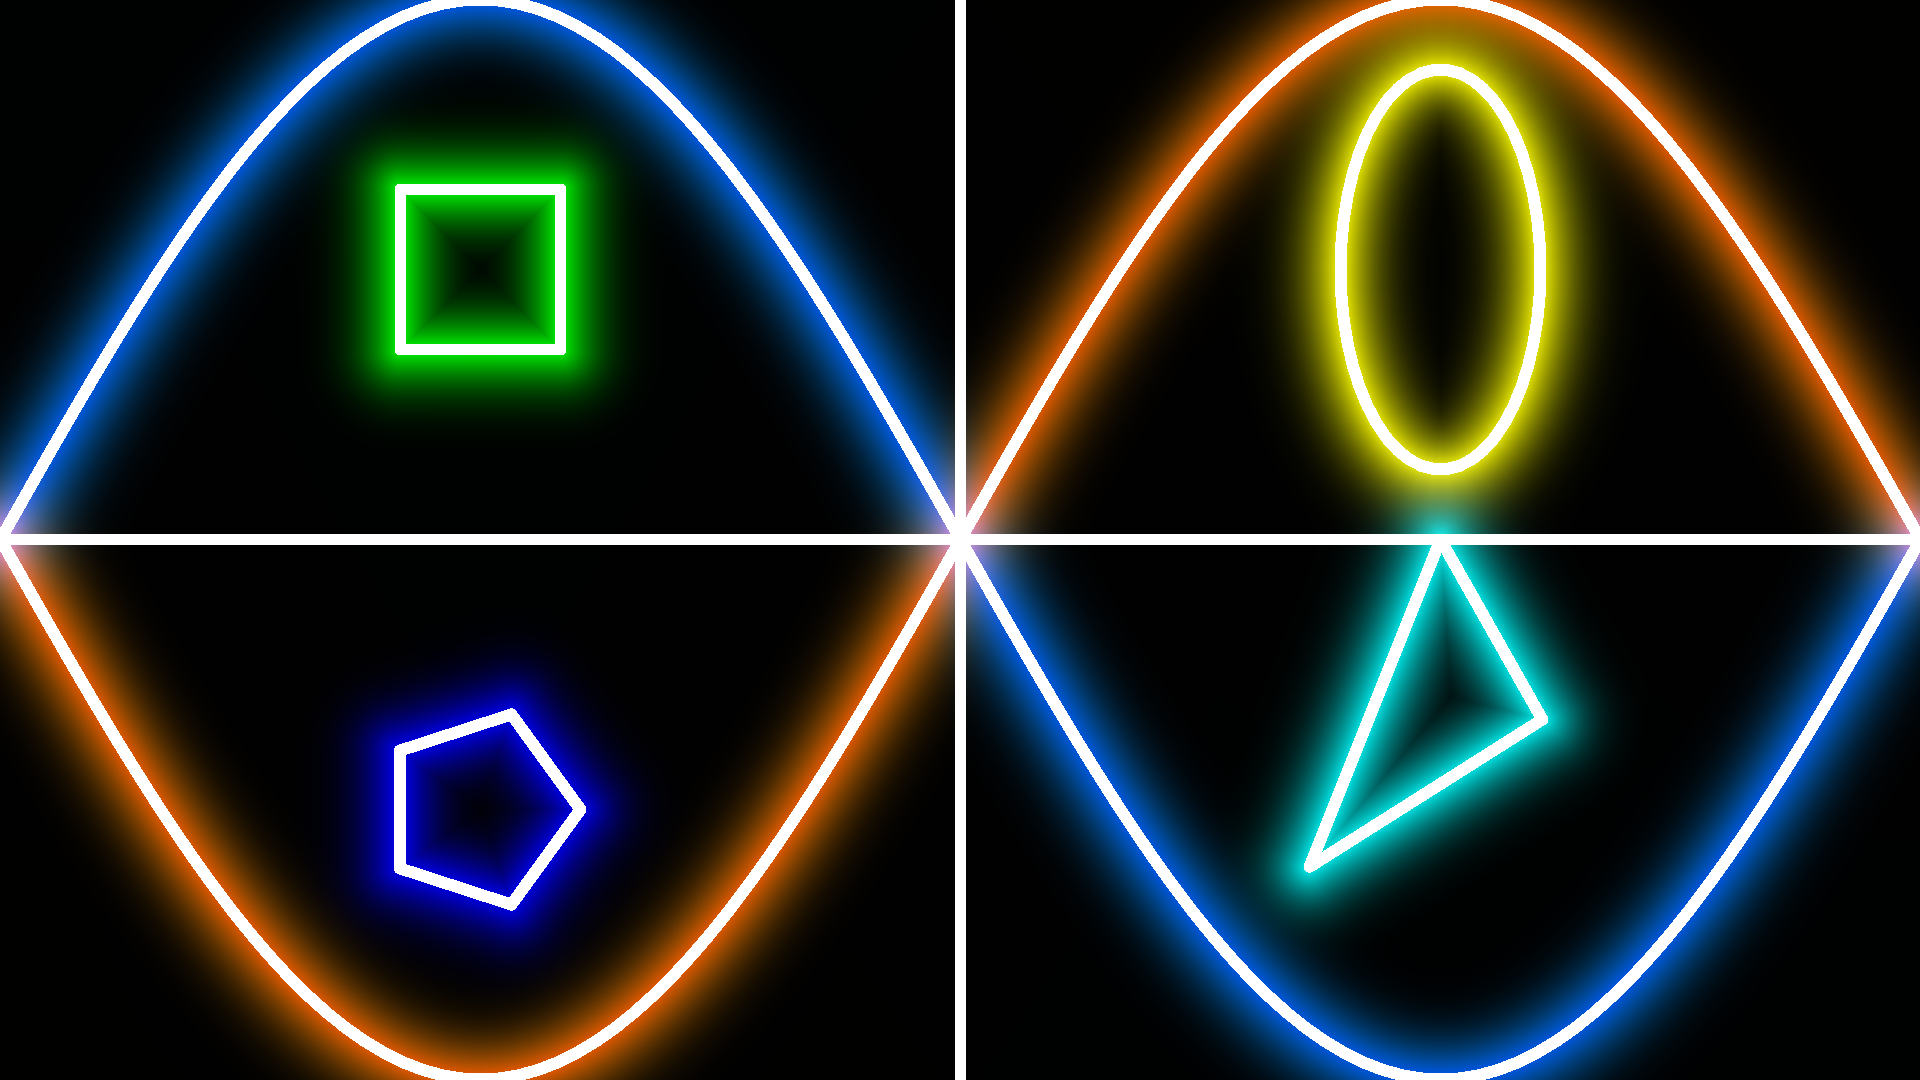
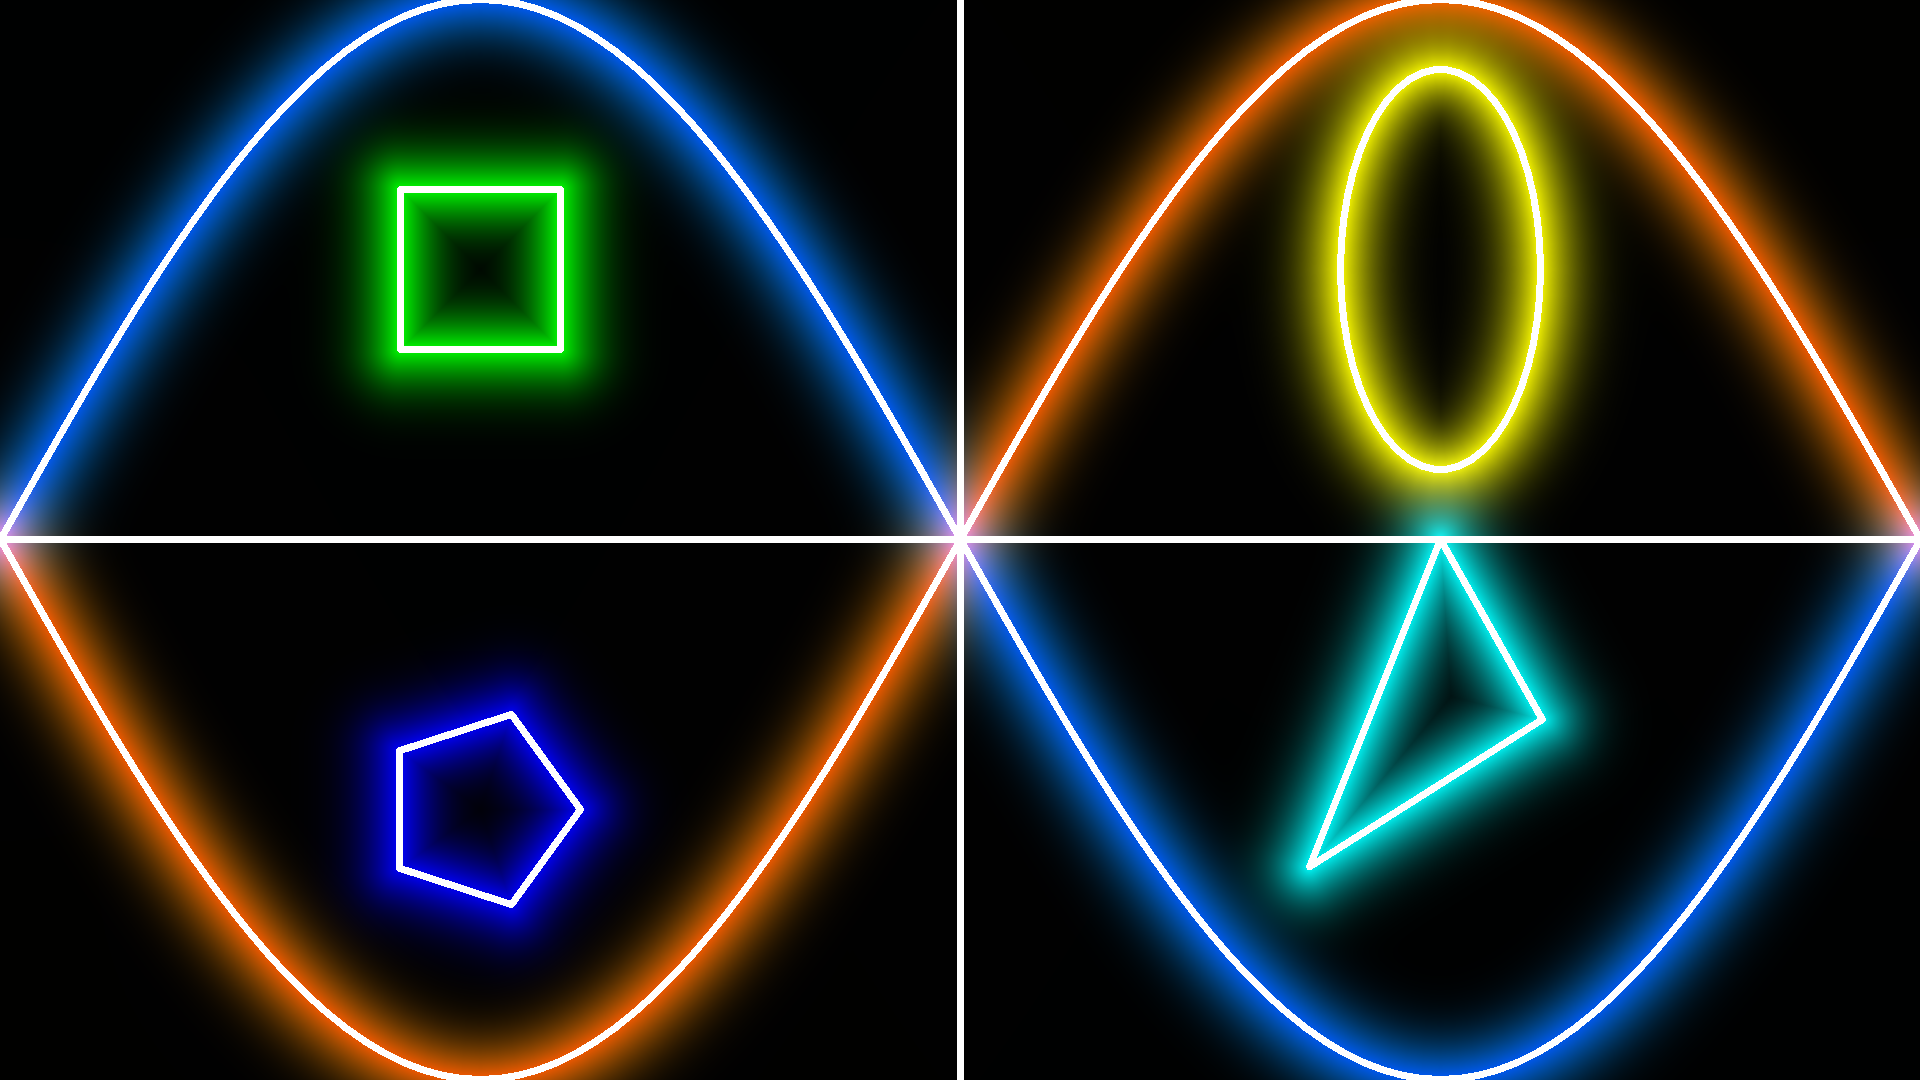
line

diff --git a/maingpu.cpp b/maingpu.cpp
@@ -106,7 +106,7 @@ int main()
                         {{255.0, 255.0, 0.0}},
                         {{0.0, 0.0, 255.0, 0.0}}};
     double pR = 50.0;
-    double lw = 6.0;
+    double lw = 3.5;
     for (int i = 0; i < n - 2; i++)
     {
         Vec4 col = Vec4MultScalar(cols[i], 1.0 / 255.0);
